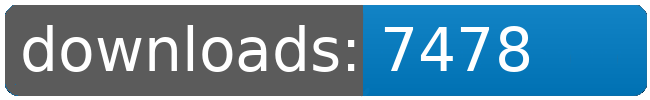
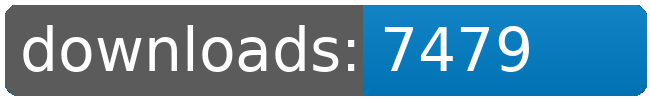
dl log written

Changed region(s): [[0.7692, 0.27, 0.8308, 0.72]]

diff --git a/README.md b/README.md
@@ -21,8 +21,8 @@
 		<td>7446</td>
 		<td>7459</td>
 		<td>7470</td>
-		<td>7478</td>
-		<td>+ 8</td>
+		<td>7479</td>
+		<td>+ 9</td>
 	</tr>
 	<tr>
 		<td>Factory.Outlets</td>
@@ -120,8 +120,8 @@
 		<td></td>
 		<td></td>
 		<td></td>
-		<td>54995</td>
-		<td>70</td>
+		<td>54996</td>
+		<td>71</td>
 	</tr>
 </table>
 </sub></sup>
@@ -157,8 +157,8 @@
 		<td>7446</td>
 		<td>7459</td>
 		<td>7470</td>
-		<td>7478</td>
-		<td>+ 8</td>
+		<td>7479</td>
+		<td>+ 9</td>
 	</tr>
 	<tr>
 		<td>Louise.Conglomerate.Shipyards</td>
@@ -245,8 +245,8 @@
 		<td></td>
 		<td></td>
 		<td></td>
-		<td>54995</td>
-		<td>70</td>
+		<td>54996</td>
+		<td>71</td>
 	</tr>
 </table>
 </sub></sup>
